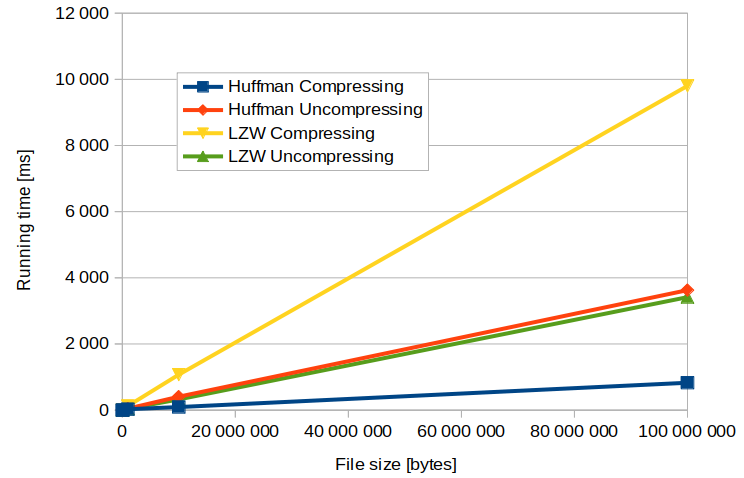
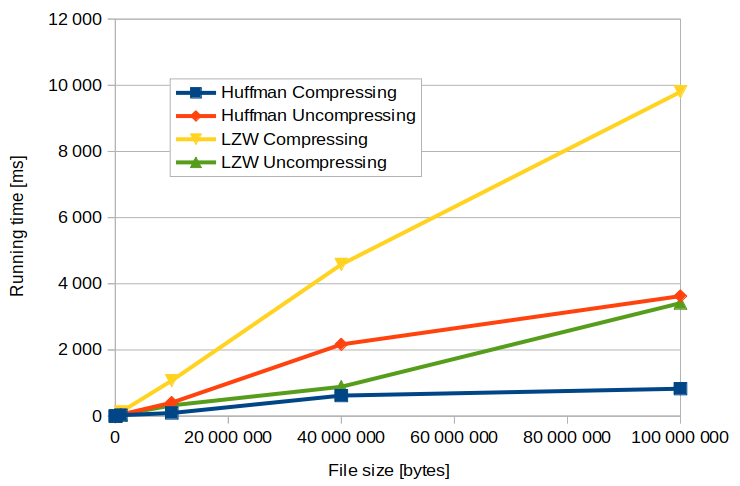
Documentation updated

Changed region(s): [[0.0, 0.0, 0.9946, 0.9958]]

diff --git a/src/test/java/performancetests/PerformanceTest.java b/src/test/java/performancetests/PerformanceTest.java
@@ -67,6 +67,7 @@ public class PerformanceTest {
             writeTestFile(list, random, 100000);
             writeTestFile(list, random, 1000000);
             writeTestFile(list, random, 10000000);
+            writeTestFile(list, random, 40000000);
             writeTestFile(list, random, 100000000);            
         } catch (Exception exception) {
             assertTrue(false);
@@ -91,6 +92,10 @@ public class PerformanceTest {
             }
             if (readFile.checkIfFileExists("testFileToPerformanceTest_10000000.txt")) {
                 File fileToDelete = new File("testFileToPerformanceTest_10000000.txt");
+                fileToDelete.delete();
+            }
+            if (readFile.checkIfFileExists("testFileToPerformanceTest_40000000.txt")) {
+                File fileToDelete = new File("testFileToPerformanceTest_40000000.txt");
                 fileToDelete.delete();
             }
             if (readFile.checkIfFileExists("testFileToPerformanceTest_100000000.txt")) {
@@ -221,6 +226,15 @@ public class PerformanceTest {
     }
     
     @Test
+    public void huffman_40000000() {
+        try {
+            huffman_x(40000000);
+        } catch (Exception e) {
+            assertTrue(false);
+        }
+    }
+    
+    @Test
     public void huffman_100000000() {
         try {
             huffman_x(100000000);
@@ -309,6 +323,15 @@ public class PerformanceTest {
     public void lzw_10000000() {
         try {
             lzw_x(10000000);
+        } catch (Exception e) {
+            assertTrue(false);
+        }
+    }
+    
+    @Test
+    public void lzw_40000000() {
+        try {
+            lzw_x(40000000);
         } catch (Exception e) {
             assertTrue(false);
         }

diff --git a/src/main/java/ui/UserInterface.java b/src/main/java/ui/UserInterface.java
@@ -90,7 +90,7 @@ public class UserInterface {
      */
     public void runUserInterface(String[] args) {
         try {
-            this.printer.println("* Compressor 0.01 *");
+            this.printer.println("* Compressor 1.00 *");
             this.printer.println("* MIT License     *");
             if (args.length > 0 && args[0] == null) {
                 args[0] = "";
@@ -125,7 +125,7 @@ public class UserInterface {
         this.printer.println("To compress file with Huffman algorithm, run command 'compressor huff uncomp <filename.huffman>'.");
         this.printer.println("");
         this.printer.println("Lempel-Ziv-Welch");
-        this.printer.println("=======");
+        this.printer.println("================");
         this.printer.println("To compress file with Lempel-Ziv-Welch algorithm, run command 'compressor lzw comp <filename>'.");
         this.printer.println("To compress file with Lempel-Ziv-Welch algorithm, run command 'compressor lzw uncomp <filename.lzw>'.");
         this.printer.println("");

diff --git a/documentation/implementation.md b/documentation/implementation.md
@@ -1,4 +1,4 @@
-# Ohjelman toteutus
+# Toteutusdokumentti
 
 ## Ohjelman koodin rakenne
 
@@ -14,17 +14,23 @@ Paketti `datastructures` sisältää toteutetut tietorakenteet ja niiden käsitt
 
 Paketti `fileio` sisältää tiedostojen lukemiseen ja kirjoittamiseen käytetyt toiminnot.
 
-## Huffman
+### Huffman
 
 [Huffman](https://en.wikipedia.org/wiki/Huffman_coding)
 
-## Lempel-Ziv-Welch
+### Lempel-Ziv-Welch
 
 [Lempel-Ziv-Welch](http://web.mit.edu/6.02/www/s2012/handouts/3.pdf)
 
 [Lempel-Ziv-Welch](http://www.ajer.org/papers/v3\(2\)/C0322226.pdf)
 
 ## Saavutetut aika- ja tilavaativuudet
+
+Ohjelman tietorakenteissa syötteen koko *n* vaikuttaa ainoastaan *ByteList*:ien suuruuteen. *ByteList*:it ovat pohjimmiltaan taulukkoja, joiden alkioihin voidaan viitata suoraan indeksillä. Ohjelman suorituksen aikana *ByteList*:ejä luetaan muutaman rajatun määrän kertoja läpi alusta loppuun. Syötteen koko *n* ei vaikuta siihen, kuinka monta kertaa kukin alkio *ByteList* taulukosta luetaan tai kirjoitetaan, vaan lukemisia on aina vakio määrä. Alkioita *ByteList*:eistä ei myöskään sijoiteta muihin tietorakenteisiin. *ByteList*ien käsittelyn aikavaativuus on siten O(n).
+
+Kaikki muut tietorakenteet on kooltaan rajattuja. Tällöin niiden käsittelyn aikavaativuus on O(1) yksittäiselle tapahtumalle ja O(n), kun niitä käsitellään *n* kertaa.
+
+Kokonaisaikavaativuus ohjelman algoritmien suoriukselle on siten O(n).
 
 ## Suorituskyky- ja O-analyysivertailu
 
@@ -34,14 +40,9 @@ Kun pakkausohjelma suoritetaan, ilmoitaan saaavutettu pakkaussuhde (pakatun tied
 
 Testeihin on sisällytetty myös testejä, joilla mitataan pakkamiseen ja purkamiseen kuluvaa aikaa. Näin eri pakkausalgoritmeja voidaan verrata keskenään.
 
-### Testisyötteet
-
-Testattavat syötteet ovat generoituja tekstitiedostoja, joihin sanat on arvottu sattumanvaraisesti teoksesta [The Project Gutenberg EBook of The King James Bible](https://www.gutenberg.org/cache/epub/10/pg10.txt). Tekstitiedostot ovat suuruudeltaan 10 000, 100 000, 1000 000, 10 000 000 ja 100 000 000 tavua.
-
-Lisäksi suoritettiin testauksia tiedostoilla, joita käytetään yleisesti pakaustehokkuuden arviointiin. Pakattavat tiedostot ovat lähteestä [The Canterbury Corpus](http://corpus.canterbury.ac.nz/descriptions/#cantrbry). Pakkaamisen tehokkuutta testattiin viidellä ajolla kullekkin operaatiolle, joista otettiin keskiarvo, joka on ilmoitettu tuloksissa. 
-
-
 ### Suorituskykytestien tulokset
+
+Testiaineistot on esitetty [testausdokumentissa](https://github.com/Robustic/Compressor/blob/master/documentation/testing.md).
 
 #### Skaalautuvuustesti
 
@@ -91,6 +92,17 @@ Huffmanin algoritmille:
         ==============================
         Uncompressing with Huffman.
         Uncompressing took 407 ms elapsed time.
+
+        
+        Huffman: 40000000 bytes
+        ==============================
+        Compressing with Huffman.
+        Input file name: 'testFileToPerformanceTest_40000000.txt'
+        Compression took 621 ms elapsed time.
+        Compressing rate 56.18 %.
+        ==============================
+        Uncompressing with Huffman.
+        Uncompressing took 2167 ms elapsed time.
 
         
         Huffman: 100000000 bytes
@@ -147,8 +159,19 @@ Lempel-Ziv-Welch:in algoritmille:
         ==============================
         Uncompressing with Lempel-Ziv-Welch.
         Uncompressing took 324 ms elapsed time.
+        
+        
+        Lempel-Ziv-Welch: 40000000 bytes
+        ==============================
+        Compressing with Lempel-Ziv-Welch.
+        Input file name: 'testFileToPerformanceTest_40000000.txt'
+        Compression took 4585 ms elapsed time.
+        Compressing rate 37.73 %.
+        ==============================
+        Uncompressing with Lempel-Ziv-Welch.
+        Uncompressing took 887 ms elapsed time.
 
-
+        
         Lempel-Ziv-Welch: 100000000 bytes
         ==============================
         Compressing with Lempel-Ziv-Welch.
@@ -161,11 +184,13 @@ Lempel-Ziv-Welch:in algoritmille:
 
 Tulokset on esitetty graafisessa muodossa alla olevassa kuvaajassa.
 
-<img src="https://github.com/Robustic/Compressor/blob/master/documentation/running_time.png" width="744">
+<img src="https://github.com/Robustic/Compressor/blob/master/documentation/running_time.png" width="740">
 
 **Kuva 1.** *Suoritusaika eri kokoisilla samasta lähdeaineistoista generoidulla tiedostolla.*
 
-Kuten kuvaajasta nähdään, ovat suoritusajat lineaarisia suhteessa syötteen kokoon. Tämä on nähtävissä Hoffmanin ja Lempel-Ziv-Welchin algoritmeilla sekä pakkaamisessa että purkamisessa. Havainto tukee arviota, että harjoitustyössä käytetyillä pakkausalgoritmeilla päästään aikavaativuuteen O(n).
+Kuten kuvaajasta nähdään, ovat suoritusajat lineaarisia suhteessa syötteen kokoon. Syötteen koon kymmenkertaistuessa suoritusaika likimain kymmnekertaistuu. Tämä on nähtävissä Hoffmanin ja Lempel-Ziv-Welchin algoritmeilla sekä pakkaamisessa että purkamisessa. Havainto tukee arviota, että harjoitustyössä käytetyillä pakkausalgoritmeilla päästään aikavaativuuteen O(n).
+
+#### Testit erilaisilla testiaineistoilla
 
 Yleisesti käytetty testiaineistoon [The Canterbury Corpus](http://corpus.canterbury.ac.nz/descriptions/#cantrbry) tehtyjen testiajojoen tulokset on estitety taulukossa 1. Kuten nähdään, päästään Lempel-Ziv-Welchillä selvästi tiiviimpään pakkaukseen. Teksti- ja numermuotoisella syötteellä tiedostojen koko pakattuna on alle 50 % alkuperäisestä. Tulokset on ilmoitettu taulukossa viiden ajon keskiarvona.
 

diff --git a/documentation/testing.md b/documentation/testing.md
@@ -1,14 +1,41 @@
-# Ohjelman testaus
+# Testausdokumentti
 
 ## Testauksen kohteet
 
+Ohjelmalle tehdyt testit jakautuivat kahteen osaan. JUnit testeillä haluttiin varmistaa ohjelman vakaa ja oikea toiminta erilaisilla syötteillä. Suorituskykytesteillä varmistettiin ohjelman suoriutuminen kokonaisuutena tehokkaasti järkevässä ajassa myös suurilla syötteillä.
 
 ## Testisyötteet
+
+### JUnit testien testisyötteet
+
+Yksikkötestauksessa on testattu koko ohjelman toiminta, eli kaikki ohjelma varten kirjoitetut luokat metodeineen. 
 
 Tietorakenteiden käsittelyyn ja tiedostosta lukemiseen ja kirjoittamisen toteuttaville luokille on tehty kattavat ja perusasioita testaavat testit pienillä ja helposti hallittavilla syötteillä. Näin on varmistettu, että muiden, korkeammalla ohjelman hierarkiassa olevien luokkien usein käyttämät luokat toimivat oikein.
 
 Algoritmien testaamisessa on testattu kokonaisten tiedostojen käsittelyä. Tässä on hyödynnetty sitä, että pakatun tiedoston täytyy purkamisen jälkeen olla täysin samanlainen alkuperäisen tiedoston kanssa. Näin useammalla tiedostolla testaten voidaan varmistua, että ohjelma sekä pakkaa että purkaa oikein.
 
+### Suorituskykytestien testisyötteet
+
+#### Skaalautuvuustesti
+
+Testattavat syötteet ovat generoituja tekstitiedostoja, joihin sanat on arvottu sattumanvaraisesti teoksesta [The Project Gutenberg EBook of The King James Bible](https://www.gutenberg.org/cache/epub/10/pg10.txt). Tekstitiedostot ovat suuruudeltaan 10 000, 100 000, 1000 000, 10 000 000, 40 000 000 ja 100 000 000 tavua. Generoiduilla tiedostoilla tehtävät testit on toteutettu JUnit testeinä. Näin saatiin ohjelman kehityksen aikana varmistettua, että ohjelman parannukset tekevät ohjelmasta tehokkaamman, eli nopeamman suorittaa.
+
+#### Testit erilaisilla testiaineistoilla
+
+Lisäksi suoritettiin testauksia tiedostoilla, joita käytetään yleisesti pakaustehokkuuden arviointiin. Pakattavat tiedostot olivat lähteestä [The Canterbury Corpus](http://corpus.canterbury.ac.nz/descriptions/#cantrbry). Pakkaamisen tehokkuutta testattiin viidellä ajolla kullekkin operaatiolle, joista otettiin keskiarvo, joka on ilmoitettu tuloksissa. Nämä testit suoritettiin valmiille ohjelman jar-paketille komentoriviltä.
+
 ## Testien toistaminen
 
-Testit on toteutettu JUnit testeillä. Testit suoritetaan automaattisesti aina kun halutaan, joten niiden suorittaminen on sujuvaa. Testien ajaminen ei myöskään vie paljoa aikaa, joten ne pystytään ajamaan aina kun ohjelmakoodia on muutettu. Näin voidaan varmistaa, että ohjelma pysyy suortuskelpoisena eikä ohjelmaa kehitettäessä hajoteta jo toimivaa koodia, vaan ohjelmistokehitys veisi kehitystyötä koko ajan eteenpäin.
+### JUnit testien toistaminen
+
+Yksikkötestit on toteutettu JUnit testeillä. Testit voidaan suorittaa automaattisesti, joten niiden suorittaminen on sujuvaa. Testien ajaminen ei myöskään vie paljoa aikaa, joten ne pystytään ajamaan aina kun ohjelmakoodia on muutettu. Näin voidaan varmistaa, että ohjelma pysyy suortuskelpoisena eikä ohjelmaa kehitettäessä hajoteta jo toimivaa koodia, vaan ohjelmistokehitys veisi kehitystyötä koko ajan eteenpäin.
+
+JUnit-testeistä saatiin hyvin kattavat. Tätä edesauttoi se, että ohjelma on komentorivipohjainen ja käytetyt algoritmit ovat lopulta suhteellisen yksinkertaisia. Testikattavuusraportti on esitetty alla.
+
+<img src="https://github.com/Robustic/Compressor/blob/master/documentation/jacoco_test_coverage.png" width="969">
+
+**Kuva 1.** *Jacoco testikattavuusraportti.*
+
+### Suorituskykytestien toistaminen
+
+Suorituskykytestit voidaan toistaa ohjelman valmiin jar-paketin avulla kullekin testattavalle tiedostolle erikseen suoraan komentoriviltä.

diff --git a/documentation/tutorial.md b/documentation/tutorial.md
@@ -1,28 +1,28 @@
 # Tutorial
 
-## Maven command line commands
+## Maven komentorivi komennot
 
-### Create JavaDoc documentation
+### Luo JavaDoc dokumentaatio
 
 `mvn javadoc:javadoc`
 
-JavaDoc documentation is generated to the folder:
+JavaDoc dokumentaatio generoituu hakemistoon:
 
 `/Compressor/target/site/apidocs/overview-summary.html`
 
-### Run JUnit tests and generate Jacoco test report
+### Aja JUnit testit ja generoi Jacoco testiraportti
 
 `mvn test`
 
-Jacoco report is generated to the folder:
+Jacoco testiraportti generoituu hakemistoon:
 
 `/Compressor/target/site/jacoco/index.html`
 
-### Generate Checkstyle report
+### Generate Checkstyle raportti
 
 `mvn checkstyle:checkstyle`
 
-Checkstyle report is generated to the folder:
+Checkstyle raportti generoituu hakemistoon:
 
 `/Compressor/target/site/checkstyle.html`
 
@@ -30,8 +30,48 @@ Checkstyle report is generated to the folder:
 
 `mvn package`
 
+Ajettavan jar-paketin voi kopioida hakemistosta `/Compressor/target/` haluamaansa hakemistoon.
+
 Jar ohjelma voidaan suorittaa komennolla 
 
-`java -jar Compressor.jar`
+`java -jar Compressor-1.00.jar`
 
 siinä kansiossa, missä jar-paketti sijaitsee.
+
+## Ohjelman toiminnot
+
+### Help
+
+Ohjelma antaa lyhyet ohjeet komentoriville komennolla 
+
+`java -jar Compressor-1.00.jar help`
+
+### Pakkaaminen Huffmanin algoritmilla
+
+`java -jar Compressor-1.00.jar huff comp <filename>`
+
+missä `<filename>` on tiedostonimi hakemistopolkuineen. Pakatun tiedoston tiedostopäätteeksi annetaan `.huffman`.
+
+### Purkaminen Huffmanin algoritmilla
+
+`java -jar Compressor-1.00.jar huff uncomp <filename>`
+
+missä `<filename>` on tiedostonimi hakemistopolkuineen. Purettavat tiedoston tulee olla pakattu samalla ohjelmalla ja tiedostopäätteenä on oltava `.huffman`.
+
+### Pakkaaminen Lempel-Ziv-Welchin algoritmilla
+
+`java -jar Compressor-1.00.jar lzw comp <filename>`
+
+missä `<filename>` on tiedostonimi hakemistopolkuineen.  Pakatun tiedoston tiedostopäätteeksi annetaan `.lzw`.
+
+### Purkaminen Lempel-Ziv-Welchin algoritmilla
+
+`java -jar Compressor-1.00.jar lzw uncomp <filename>`
+
+missä `<filename>` on tiedostonimi hakemistopolkuineen. Purettavat tiedoston tulee olla pakattu samalla ohjelmalla ja tiedostopäätteenä on oltava `.lzw`.
+
+## Ohjelman sallimat syötteet
+
+Ohjelma sallii pakattaviksi tiedostoiksi teksti- ja binääritiedostoja . Ohjelma hyväksyy pakattavaksi kaikki tiedostot, joiden koko on alle 512 megatavua. Purettavat tiedoston tulee olla pakattu samalla ohjelmalla ja tiedostopäätteen on oltava oikea.
+
+
